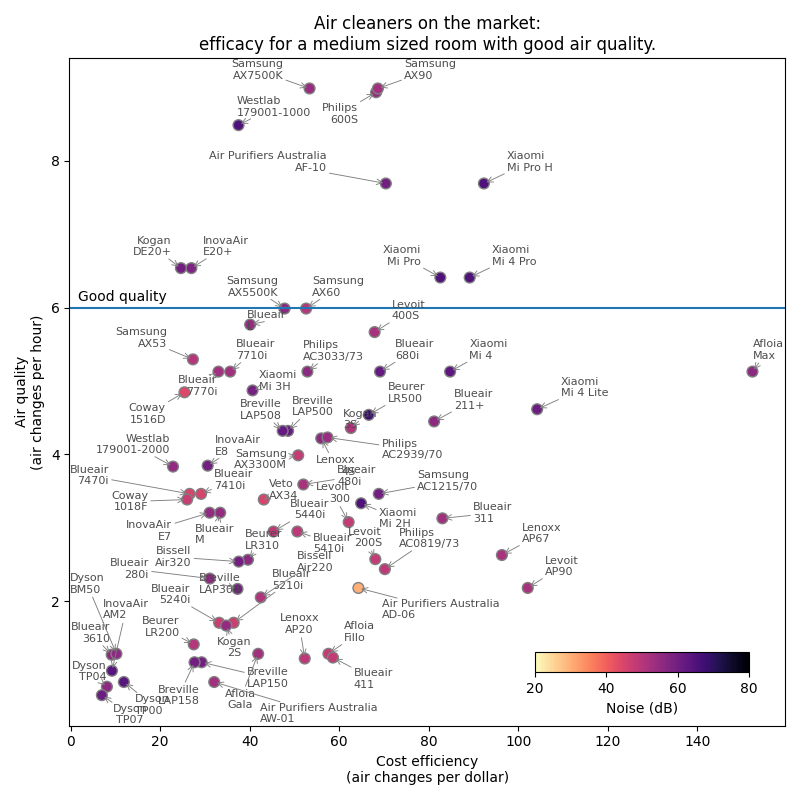
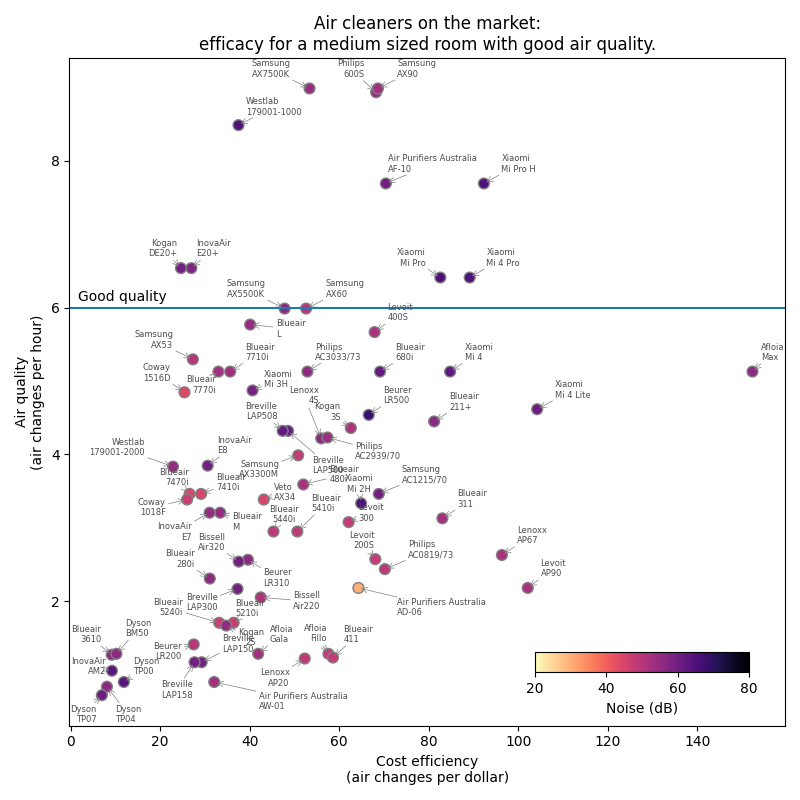
Quick push

diff --git a/products/dashboard.html b/products/dashboard.html
@@ -13,7 +13,7 @@ With so many air cleaning devices on the market, how do we know which product is
 <div>
 <h2>Overview Chart</h2>
 <p>
-This chart brings all of our data together in one graphic. Based on a typical medium-sized room and a safe standard of air quality, this chart asks: how many rooms full of clear air can this device buy me for the cost of a single dollar (left to right, where right is better), and how many typical medium-sized rooms can it keep clean (bottom to top, where top is better). The colour gives a sense of how noisy the device is (blue to red, where blue is better). The cost includes the upfront cost (spread over six years) plus the expected ongoing costs of electricity and filter replacements.
+This chart brings all of our data together in one graphic. Based on a typical medium-sized room (78 m<sup>3</sup>), this chart asks: <ul><li>How many rooms full of clean air can this device buy for the cost of a dollar (left to right, where right is better)</li><li>How many (bottom to top, where top is better)</li><li>How noisy the device is (yellow to black, where yellow is better)</li></ul> The cost includes the upfront cost (spread over 1 years) plus the expected ongoing costs of electricity and filter replacements.
 </p>
 <div align="center">
 <img id = 'synoptic' src='https://rsbyrne.github.io/aircleaning/products/synoptic.png' alt="Synoptic"> 

diff --git a/aircleaning/produce.py b/aircleaning/produce.py
@@ -109,6 +109,8 @@ def make_cost_analysis_form_channel(overname, data, /):
 def dashboard(path=productsdir, name='dashboard'):
 
     vols, quals = load.get_volume_data(), load.get_quality_data()
+    mediumvol = f"{round(vols.loc['medium', 'levels'])} m<sup>3</sup>"
+    # goodqual = f"{round(quals.loc['good', 'levels'])} ACH"
 
     strn = ''
 
@@ -130,7 +132,7 @@ def dashboard(path=productsdir, name='dashboard'):
         '''<div>''',
         '''<h2>Overview Chart</h2>''',
         '''<p>''',
-        '''This chart brings all of our data together in one graphic. Based on a typical medium-sized room and a safe standard of air quality, this chart asks: how many rooms full of clear air can this device buy me for the cost of a single dollar (left to right, where right is better), and how many typical medium-sized rooms can it keep clean (bottom to top, where top is better). The colour gives a sense of how noisy the device is (blue to red, where blue is better). The cost includes the upfront cost (spread over six years) plus the expected ongoing costs of electricity and filter replacements.''',
+        f'''This chart brings all of our data together in one graphic. Based on a typical medium-sized room ({mediumvol}), this chart asks: <ul><li>How many rooms full of clean air can this device buy for the cost of a dollar (left to right, where right is better)</li><li>How many (bottom to top, where top is better)</li><li>How noisy the device is (yellow to black, where yellow is better)</li></ul> The cost includes the upfront cost (spread over {load.NOMINALPERIOD} years) plus the expected ongoing costs of electricity and filter replacements.''',
         '''</p>''',
         '''<div align="center">''',
         '''<img id = 'synoptic' src='https://rsbyrne.github.io/aircleaning/products/synoptic.png' alt="Synoptic"> ''',
@@ -275,7 +277,7 @@ def synoptic(data=None, /, volume='medium', quality='good', path=productsdir):
         tuple(
             ax.text(
                 x, y, txt,
-                color="#4d4d4d", fontsize=8, fontname="DejaVu Sans",
+                color="#4d4d4d", fontsize=6, fontname="DejaVu Sans",
                 )
             for txt, x, y in zip(
                 map('\n'.join, data.index),
@@ -287,7 +289,7 @@ def synoptic(data=None, /, volume='medium', quality='good', path=productsdir):
         arrowprops=dict(
             arrowstyle="->", 
             color="#7F7F7F", 
-            lw=0.65
+            lw=0.5
             ),
         ax=ax,
         )
